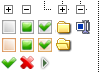
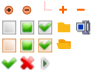
Folders and files finally

diff --git a/web-app/jsTree.v.1.0rc2/themes/classic/style.css b/web-app/jsTree.v.1.0rc2/themes/classic/style.css
@@ -6,15 +6,16 @@
 
 .jstree-classic li, 
 .jstree-classic ins { background-image:url("d.png"); background-repeat:no-repeat; background-color:transparent; }
-.jstree-classic li { background-position:-90px 0; background-repeat:repeat-y;  }
+.jstree-classic li { background-position:-91px 0; background-repeat:repeat-y;  }
 .jstree-classic li.jstree-last { background:transparent; }
-.jstree-classic .jstree-open > ins { background-position:-72px 0; }
-.jstree-classic .jstree-closed > ins { background-position:-54px 0; }
+.jstree-classic .jstree-open > ins { background-position:-72px 0; cursor: pointer; }
+.jstree-classic .jstree-closed > ins { background-position:-54px 0; cursor: pointer; }
 .jstree-classic .jstree-leaf > ins { background-position:-36px 0; }
 
 .jstree-classic .jstree-hovered { background:#e7f4f9; border:1px solid #e7f4f9; padding:0 2px 0 1px; }
-.jstree-classic .jstree-clicked { background:navy; border:1px solid navy; padding:0 2px 0 1px; color:white; }
+.jstree-classic .jstree-clicked { background:#e7f4f9; border:1px solid #2779AA; padding:0 2px 0 1px; color:#2779AA; font-weight: bold; }
 .jstree-classic a .jstree-icon { background-position:-56px -19px; }
+.jstree-classic a .file { background:url("leaf.gif"); background-repeat:no-repeat; background-color:transparent; }
 .jstree-classic .jstree-open > a .jstree-icon { background-position:-56px -36px; }
 .jstree-classic a.jstree-loading .jstree-icon { background:url("throbber.gif") center center no-repeat !important; }
 
